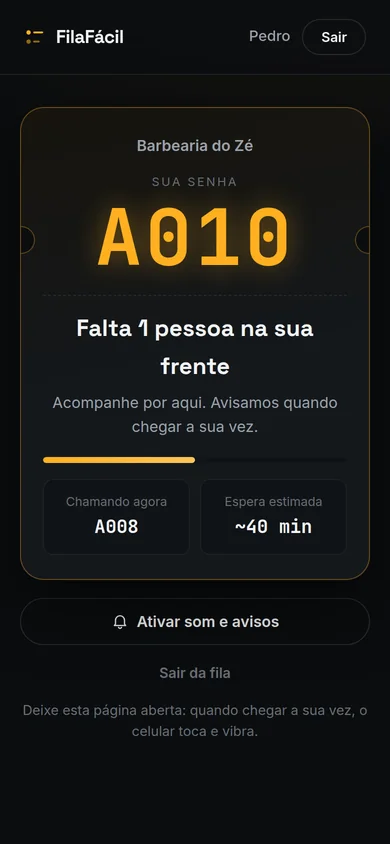
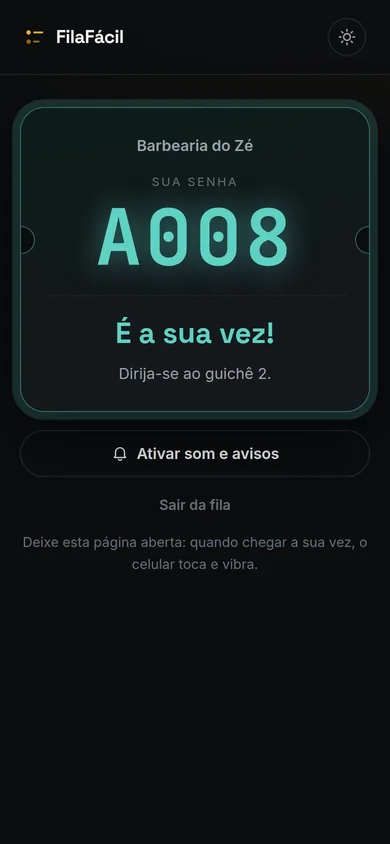
Update README screenshots for guest tickets and counters
The panel, phone and TV screenshots now show two counters and
customers without an account (sample data).

Assisted-by: Claude:Opus 5.5 [Claude-Code]

diff --git a/README.md b/README.md
@@ -36,7 +36,7 @@ Sistema de gestão de filas para pequenos negócios. O estabelecimento cria a co
 
 O site, o app e a tela da TV têm tema claro e escuro, com a escolha salva no navegador. Quem esquece a senha da conta recebe por e-mail um link para criar outra, e a [política de privacidade](https://fila-facil-app.onrender.com/privacidade.html) explica quais dados são guardados.
 
-<img src="docs/celular.webp" alt="Senha do cliente no celular" width="300">
+<img src="docs/celular-sem-conta.webp" alt="Pegar senha sem conta, só com o nome" width="260"> <img src="docs/celular.webp" alt="Aviso de que chegou a vez, com o guichê" width="260">
 
 A espera estimada usa o tempo médio configurado até haver 3 atendimentos no dia; depois, a média real do dia, dividida pelo número de guichês. A numeração das senhas recomeça do 1 todo dia.
 
